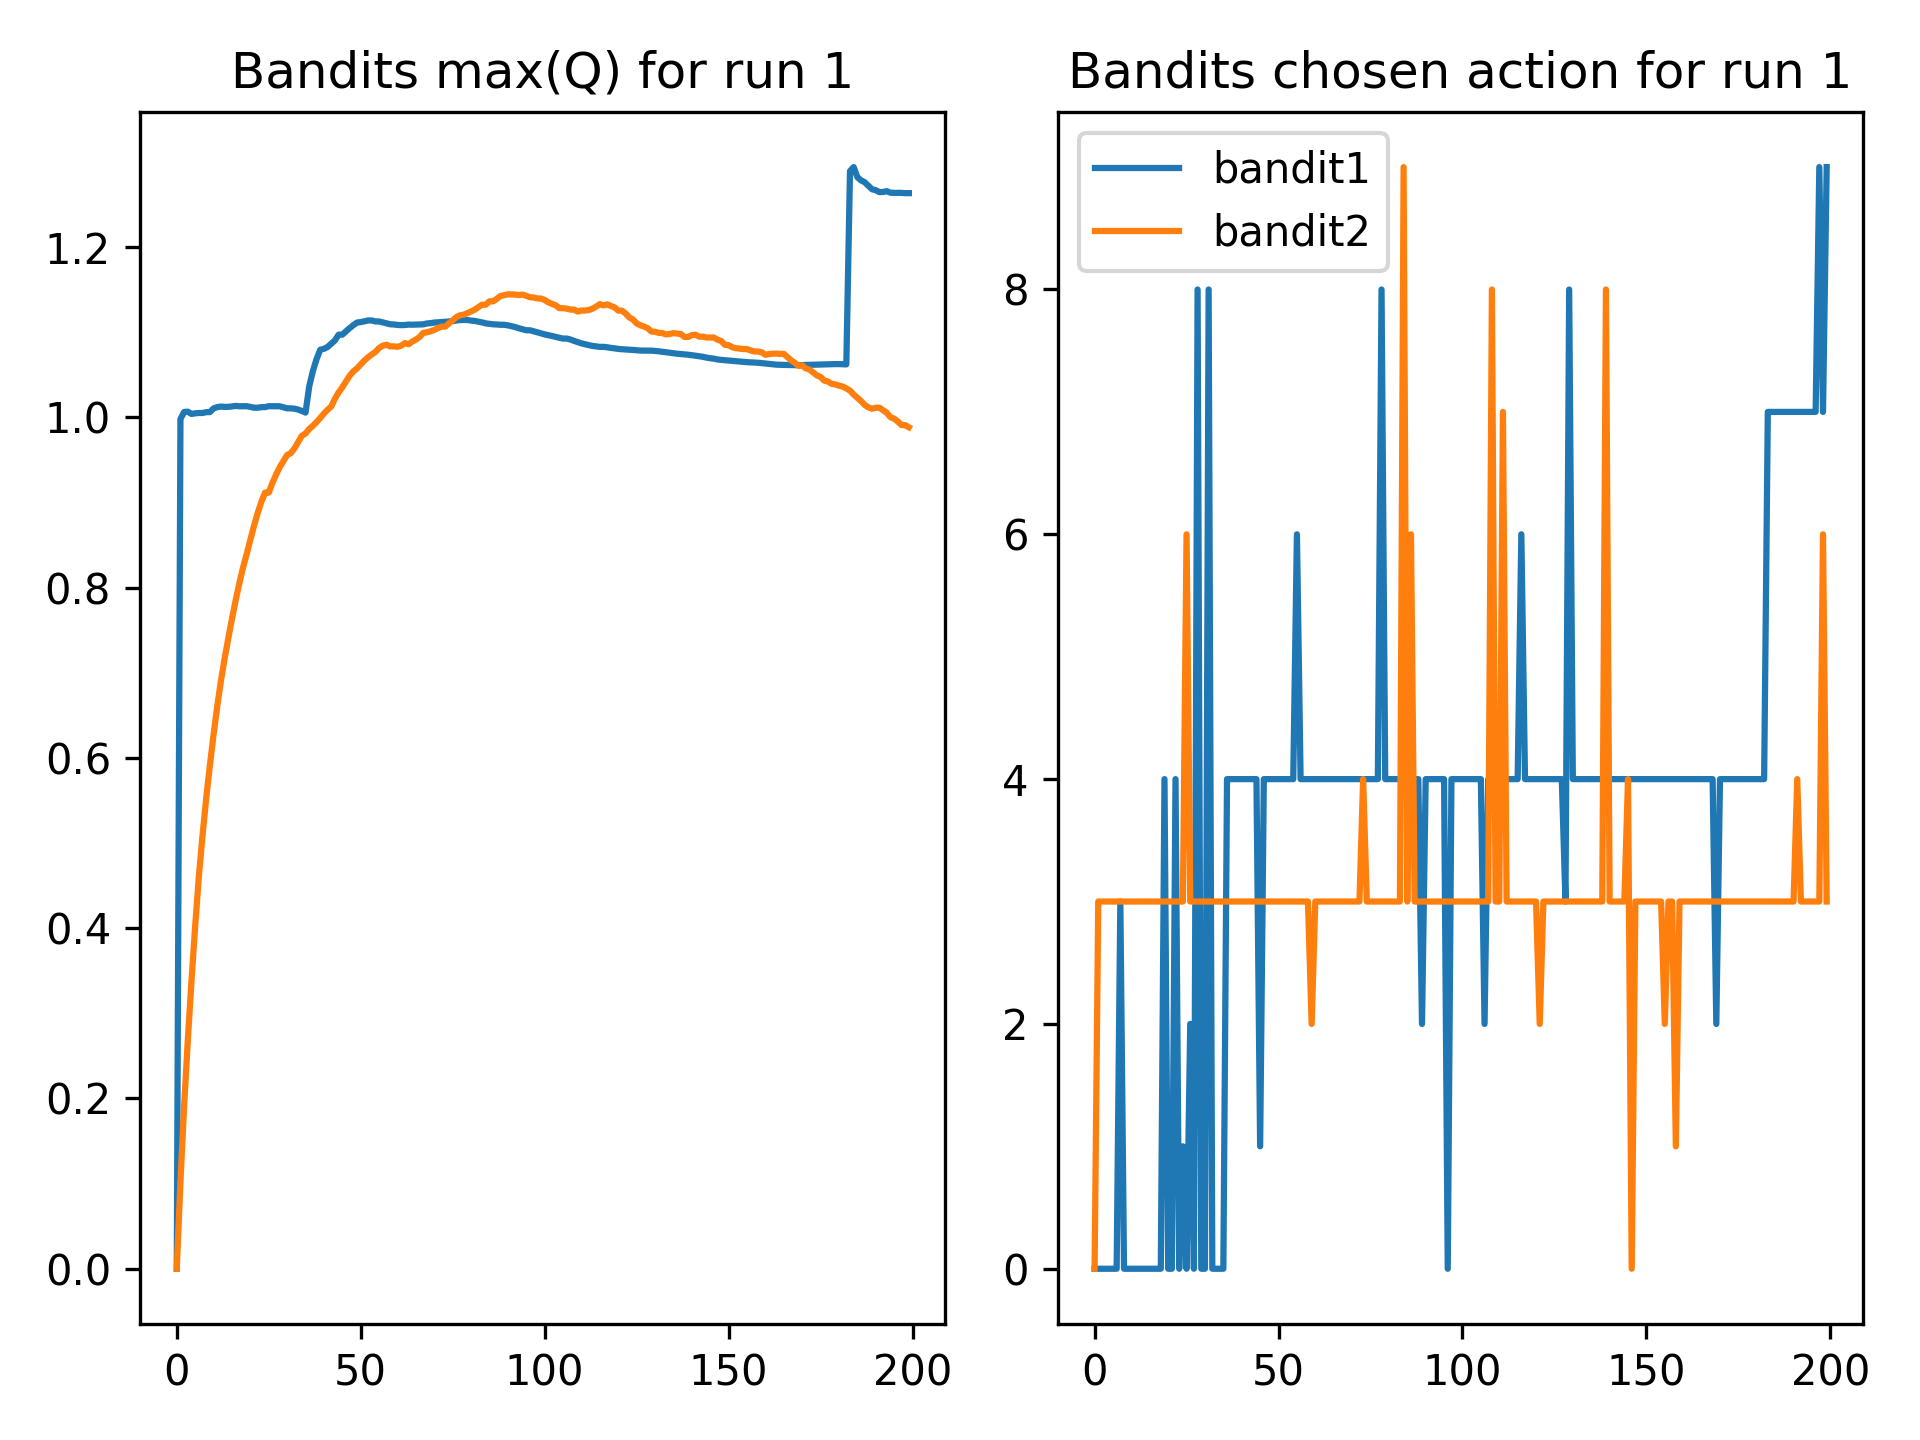
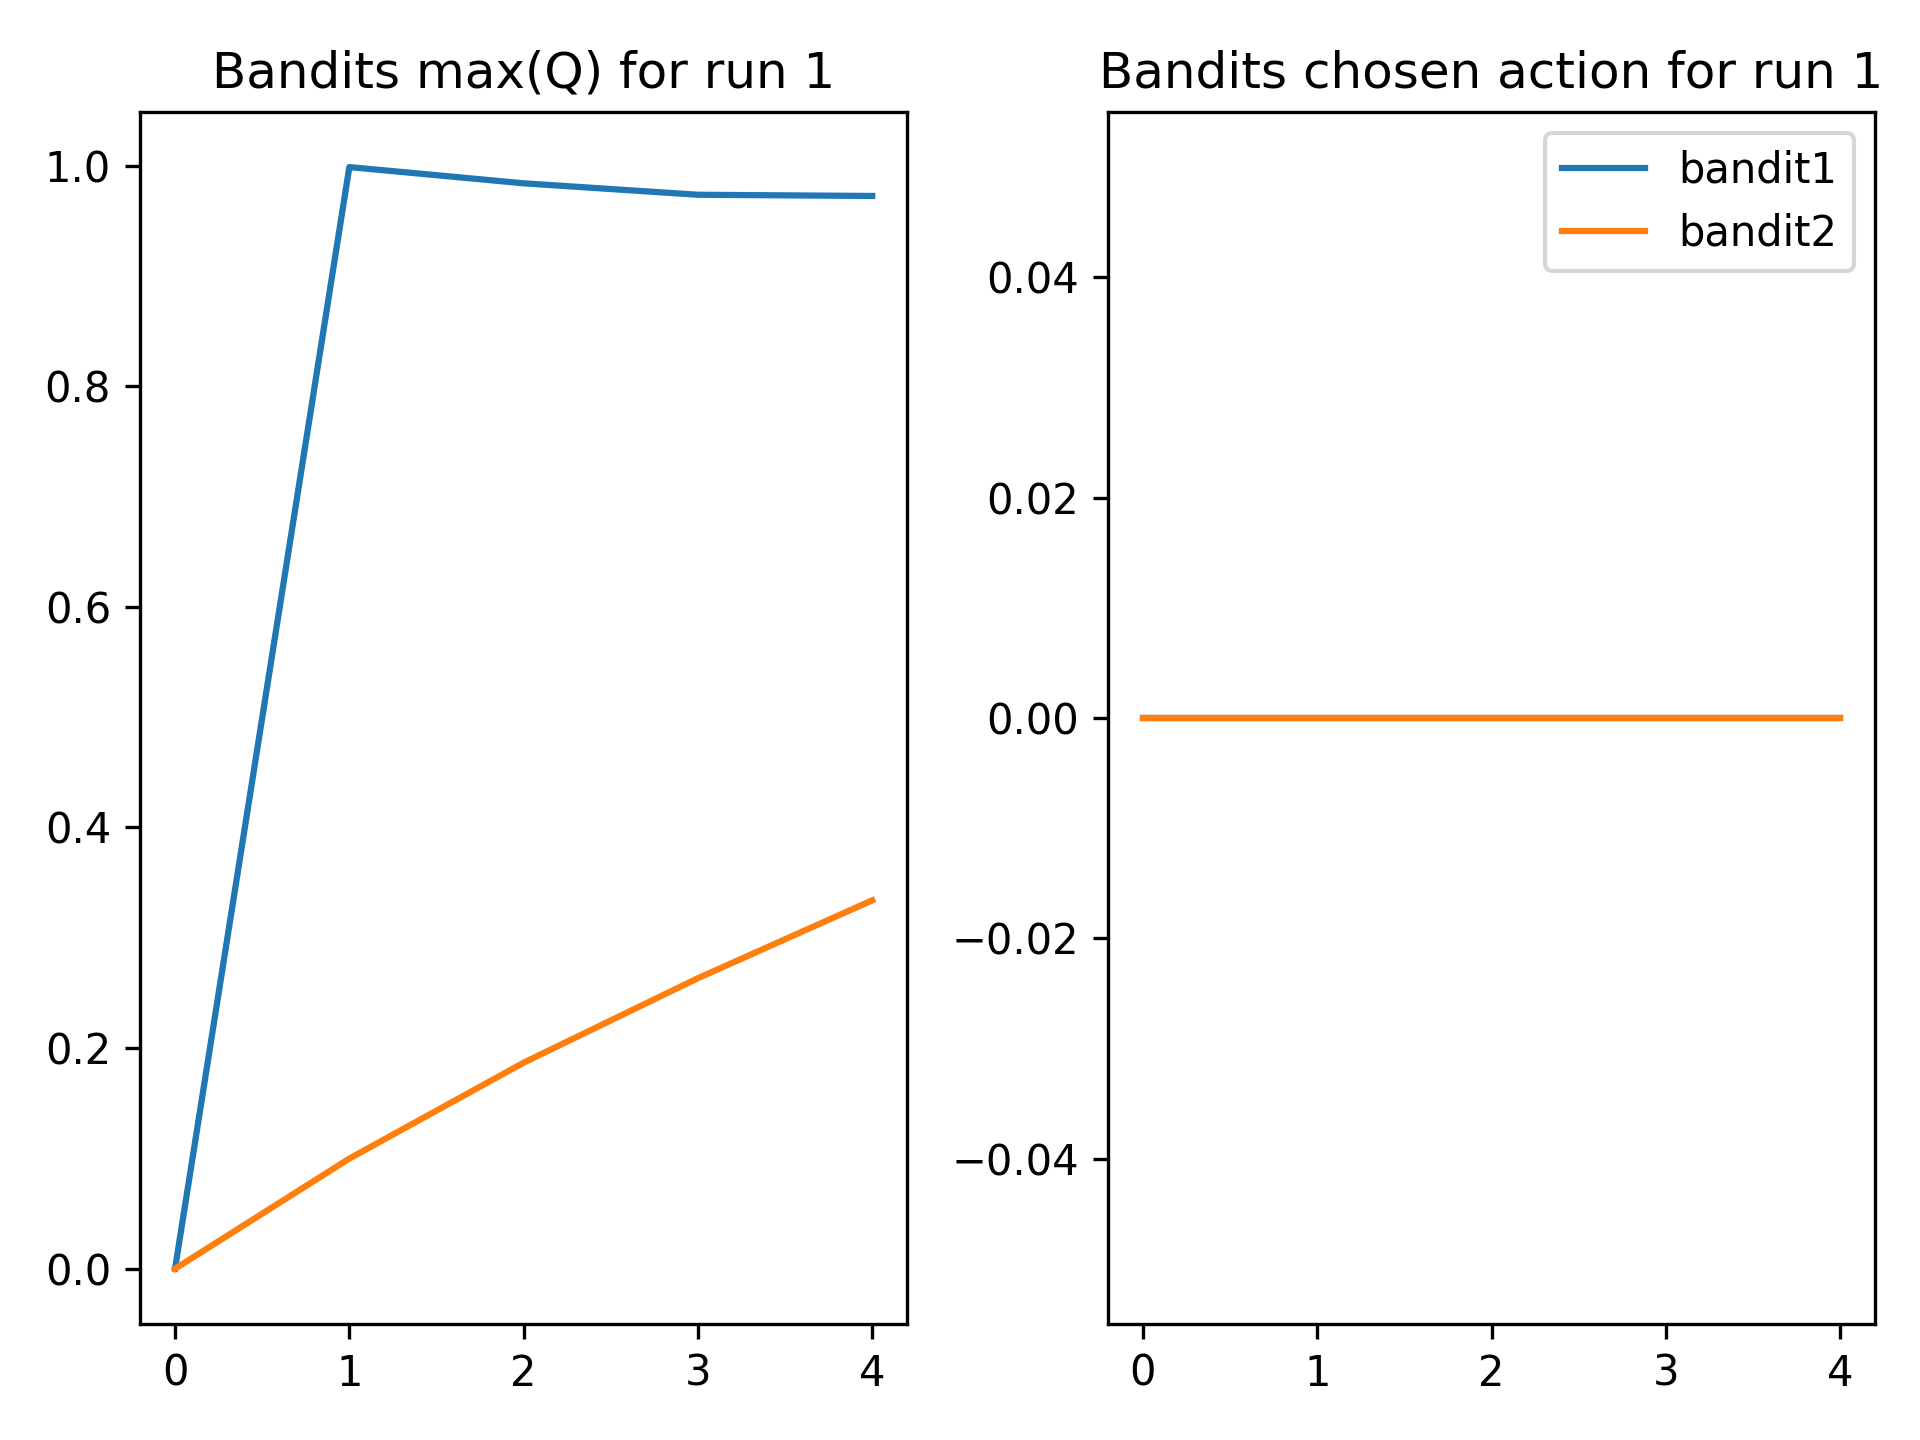
Need to fix get_global_q_max algorithm

diff --git a/src/CS6900/exercise_2_5_try2.py b/src/CS6900/exercise_2_5_try2.py
@@ -59,22 +59,37 @@ class Bandits:
         Bandits.step = 0
 
     def get_Q_max(self):
-        # Get the maximum expected reward at each step in a run. Useful because
-        # we can plot it and see which algorithm has a larger EXPECTED reward
+        """
+        Get the largest Q value of all the actions at every time step. This is
+        how we rank our bandits, who could make the most money from choosing
+        the greedy action every time?
+        """
+
         Q_max_arr = np.zeros(self.n_steps)
         for i in range(self.n_steps):
             Q_max_arr[i] = np.max(self.Q[:, i])
         return Q_max_arr
 
     def get_global_Q_max(self):
-        # Same as above, but first we average every run together and then get
-        # the largest expected turn of each step of that
+        """
+        Average together all of the runs. Then find the largest Q value of all
+        the actions at every time step. This will smooth out all the bumps and
+        tell us which algorithm is working best on average.
+
+        Note: It's actually mandatory that you find the max of each run first,
+        and then average that together. If you don't, it will average zeros with 
+        high values and drop the average. Will not be accurate.
+        """
+
         Q_global_mean = np.mean(self.Q_global, axis=2)
         Q_global_max = np.zeros((self.n_steps))
 
         for i in range(self.n_steps):
             Q_global_max[i] = np.max(Q_global_mean[:, i])
         return Q_global_max
+    
+        for j in range(self.n_runs):
+            
 
 #-----------------------------------------------------------------------------
 
@@ -147,8 +162,8 @@ at every time step.
 
 # CONSTANTS
 n_arms = 10
-n_steps = 200
-n_runs = 5
+n_steps = 5
+n_runs = 3
 epsilon1 = .1
 epsilon2 = .1
 alpha1 = 0
@@ -181,8 +196,8 @@ for j in range(n_runs):
         bandit1.rewards_received[i] = reward_array[B1_A]
         bandit1.N[:, i] = bandit1.N[:, i-1]
         bandit1.Q[:, i] = bandit1.Q[:, i-1]
-        bandit1.N[B1_A][i] = bandit1.N[B1_A, i] + 1
-        bandit1.Q[B1_A][i] = bandit1.Q[B1_A, i]+1/bandit1.N[B1_A, i]*(bandit1.rewards_received[i]-bandit1.Q[B1_A, i])
+        bandit1.N[B1_A, i] = bandit1.N[B1_A, i] + 1
+        bandit1.Q[B1_A, i] = bandit1.Q[B1_A, i]+1/bandit1.N[B1_A, i]*(bandit1.rewards_received[i]-bandit1.Q[B1_A, i])
 
 
         B2_A = bandit2.sample_average_choose_action()
@@ -202,6 +217,7 @@ for j in range(n_runs):
 
     Bandits.run = Bandits.run + 1
     bandit1.Q_global[:,:,j] = bandit1.Q[:,:] # Save that run
+    print(bandit1.Q[:,:])
     bandit2.Q_global[:,:,j] = bandit2.Q[:,:]
     plot_bandits([bandit1, bandit2]) # Visualize levers at end of each run
     # Reset bandits for the next run...
@@ -213,8 +229,11 @@ for j in range(n_runs):
 
 
 
-
+print(bandit1.Q_global)
+print("\n\n\n\n")
+print(np.mean(bandit1.Q_global, axis=2))
 plot_globals_bandits([bandit1, bandit2])
+look_here = bandit2.Q_global
 plt.show()
 
 # if __name__ == '__main__':
